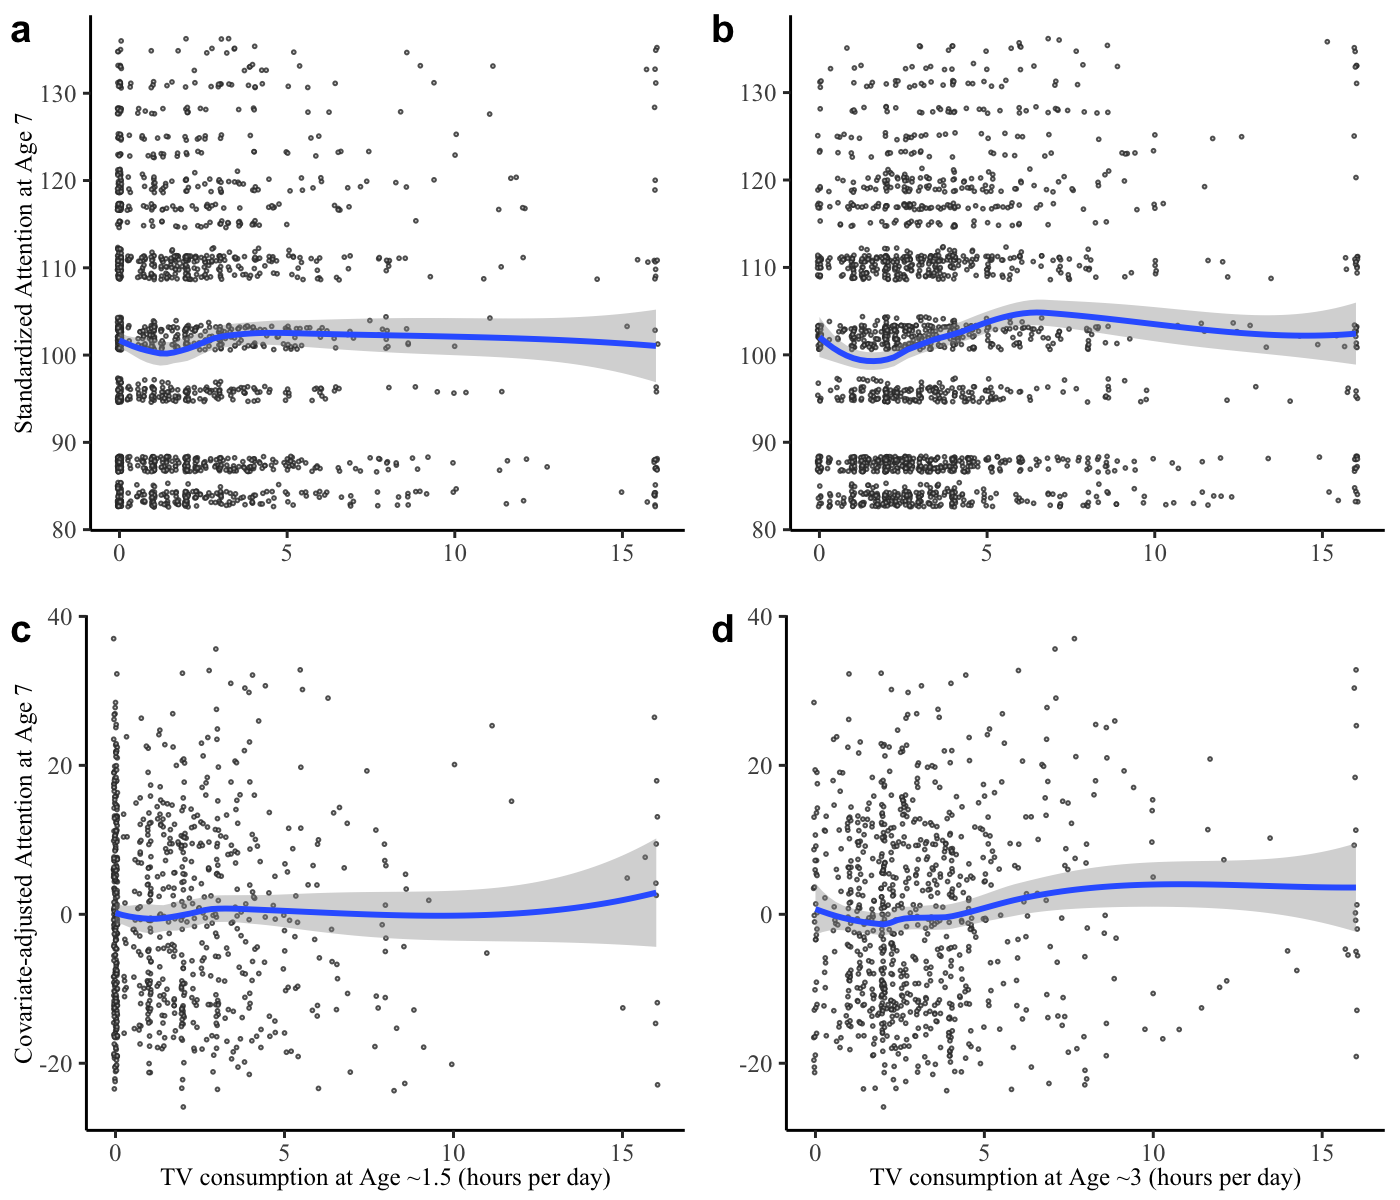
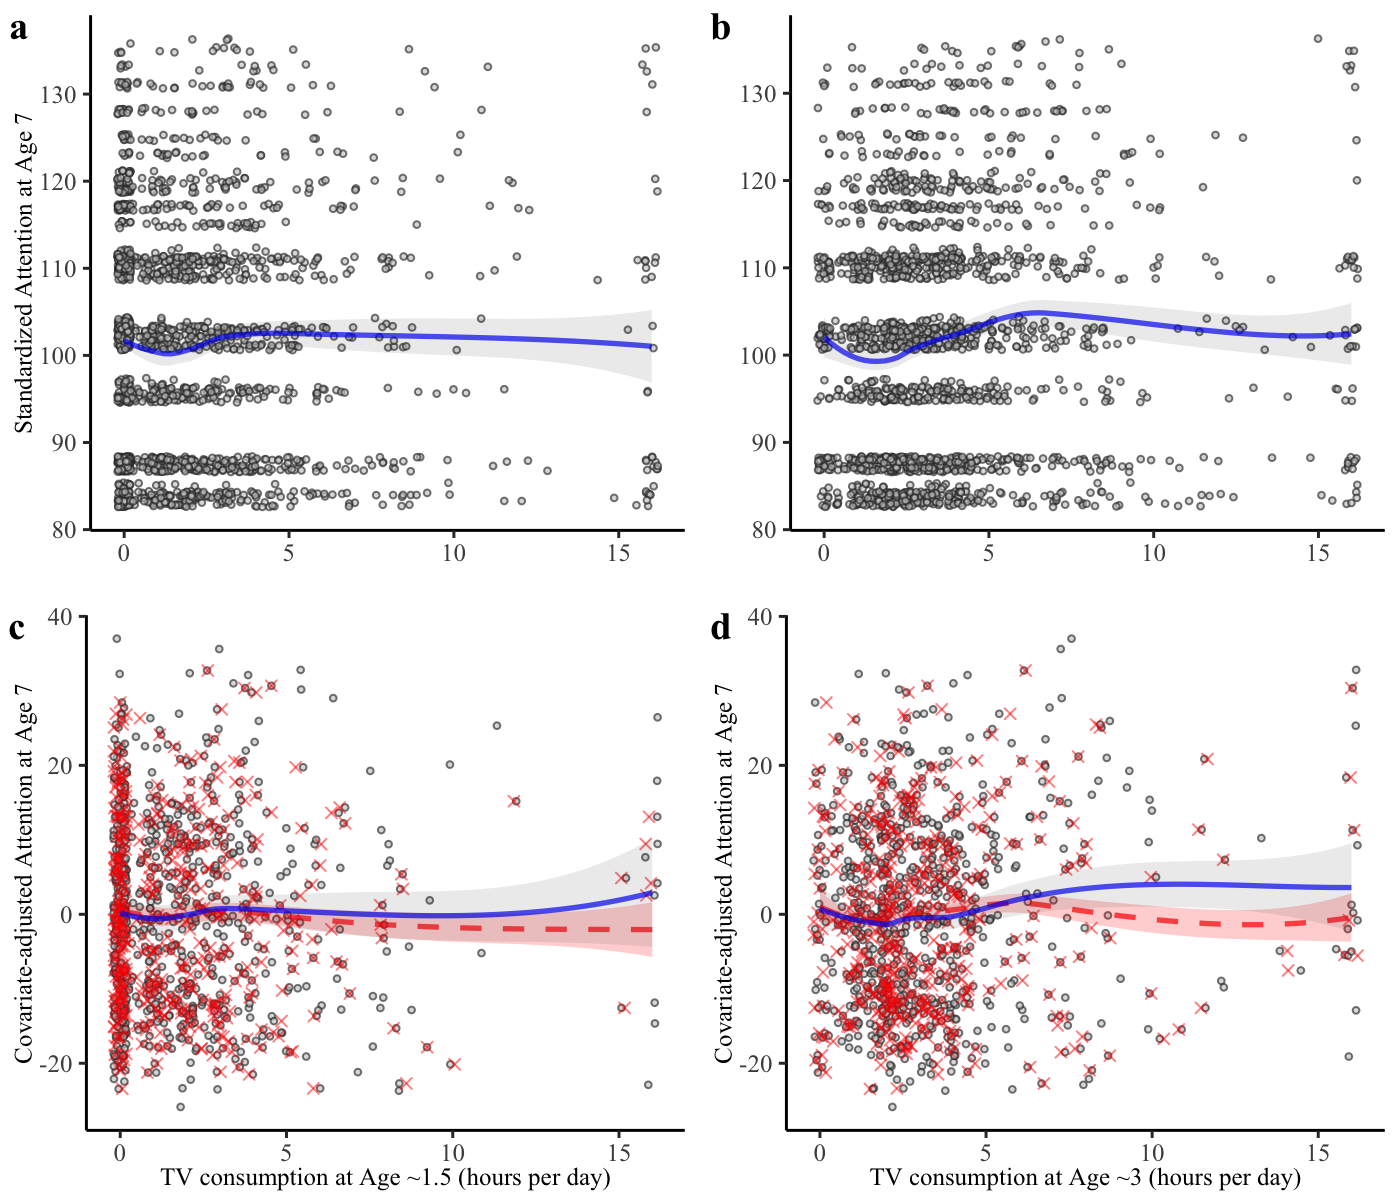
scatterplots show imputed data, EFA bugfix

diff --git a/Manuscript/Tables/temp_att_EFA_2factor.html b/Manuscript/Tables/temp_att_EFA_2factor.html
@@ -1,17 +1,17 @@
 
 <table style="text-align:center"><caption><strong>EFA results</strong></caption>
 <tr><td colspan="3" style="border-bottom: 1px solid black"></td></tr><tr><td style="text-align:left"></td><td>MR1</td><td>MR2</td></tr>
-<tr><td colspan="3" style="border-bottom: 1px solid black"></td></tr><tr><td style="text-align:left">temp1</td><td>0.002</td><td>0.606</td></tr>
-<tr><td style="text-align:left">temp2</td><td>-0.042</td><td>0.492</td></tr>
-<tr><td style="text-align:left">temp3</td><td>-0.068</td><td>0.526</td></tr>
-<tr><td style="text-align:left">temp4</td><td>-0.127</td><td>0.413</td></tr>
-<tr><td style="text-align:left">temp5</td><td>-0.085</td><td>0.403</td></tr>
-<tr><td style="text-align:left">temp6</td><td>-0.079</td><td>0.540</td></tr>
-<tr><td style="text-align:left">att1</td><td>0.763</td><td>-0.048</td></tr>
-<tr><td style="text-align:left">att2</td><td>0.559</td><td>-0.062</td></tr>
-<tr><td style="text-align:left">att3</td><td>0.578</td><td>-0.022</td></tr>
-<tr><td style="text-align:left">att4</td><td>0.471</td><td>-0.109</td></tr>
-<tr><td style="text-align:left">att5</td><td>0.674</td><td>-0.104</td></tr>
+<tr><td colspan="3" style="border-bottom: 1px solid black"></td></tr><tr><td style="text-align:left">temp1</td><td>-0.007</td><td>0.611</td></tr>
+<tr><td style="text-align:left">temp2</td><td>-0.033</td><td>0.496</td></tr>
+<tr><td style="text-align:left">temp3</td><td>-0.071</td><td>0.532</td></tr>
+<tr><td style="text-align:left">temp4</td><td>-0.131</td><td>0.413</td></tr>
+<tr><td style="text-align:left">temp5</td><td>-0.109</td><td>0.379</td></tr>
+<tr><td style="text-align:left">temp6</td><td>-0.110</td><td>0.497</td></tr>
+<tr><td style="text-align:left">att1</td><td>0.762</td><td>-0.062</td></tr>
+<tr><td style="text-align:left">att2</td><td>0.557</td><td>-0.069</td></tr>
+<tr><td style="text-align:left">att3</td><td>0.579</td><td>-0.030</td></tr>
+<tr><td style="text-align:left">att4</td><td>0.469</td><td>-0.106</td></tr>
+<tr><td style="text-align:left">att5</td><td>0.675</td><td>-0.106</td></tr>
 <tr><td colspan="3" style="border-bottom: 1px solid black"></td></tr><tr><td colspan="3" style="text-align:left">Structure coefficients for a 2-factor solution</td></tr>
 <tr><td colspan="3" style="text-align:left">Minimum residual solution</td></tr>
 <tr><td colspan="3" style="text-align:left">Direct oblimin rotation</td></tr>

diff --git a/Manuscript/Tables/temp_att_EFA_1factor.html b/Manuscript/Tables/temp_att_EFA_1factor.html
@@ -1,16 +1,16 @@
 
 <table style="text-align:center"><caption><strong>EFA results</strong></caption>
 <tr><td colspan="2" style="border-bottom: 1px solid black"></td></tr><tr><td style="text-align:left"></td><td>.</td></tr>
-<tr><td colspan="2" style="border-bottom: 1px solid black"></td></tr><tr><td style="text-align:left">temp1</td><td>-0.149</td></tr>
-<tr><td style="text-align:left">temp2</td><td>-0.166</td></tr>
-<tr><td style="text-align:left">temp3</td><td>-0.195</td></tr>
-<tr><td style="text-align:left">temp4</td><td>-0.227</td></tr>
-<tr><td style="text-align:left">temp5</td><td>-0.186</td></tr>
-<tr><td style="text-align:left">temp6</td><td>-0.207</td></tr>
-<tr><td style="text-align:left">att1</td><td>0.701</td></tr>
-<tr><td style="text-align:left">att2</td><td>0.539</td></tr>
-<tr><td style="text-align:left">att3</td><td>0.540</td></tr>
-<tr><td style="text-align:left">att4</td><td>0.478</td></tr>
-<tr><td style="text-align:left">att5</td><td>0.659</td></tr>
+<tr><td colspan="2" style="border-bottom: 1px solid black"></td></tr><tr><td style="text-align:left">temp1</td><td>-0.158</td></tr>
+<tr><td style="text-align:left">temp2</td><td>-0.159</td></tr>
+<tr><td style="text-align:left">temp3</td><td>-0.199</td></tr>
+<tr><td style="text-align:left">temp4</td><td>-0.231</td></tr>
+<tr><td style="text-align:left">temp5</td><td>-0.204</td></tr>
+<tr><td style="text-align:left">temp6</td><td>-0.229</td></tr>
+<tr><td style="text-align:left">att1</td><td>0.702</td></tr>
+<tr><td style="text-align:left">att2</td><td>0.537</td></tr>
+<tr><td style="text-align:left">att3</td><td>0.541</td></tr>
+<tr><td style="text-align:left">att4</td><td>0.472</td></tr>
+<tr><td style="text-align:left">att5</td><td>0.657</td></tr>
 <tr><td colspan="2" style="border-bottom: 1px solid black"></td></tr><tr><td colspan="2" style="text-align:left">Structure coefficients for a 1-factor solution</td></tr>
 </table>

diff --git a/Manuscript/Tables/temp_att_EFA_2factor_Phi.html b/Manuscript/Tables/temp_att_EFA_2factor_Phi.html
@@ -1,8 +1,8 @@
 
 <table style="text-align:center"><caption><strong>EFA results</strong></caption>
 <tr><td colspan="3" style="border-bottom: 1px solid black"></td></tr><tr><td style="text-align:left"></td><td>MR1</td><td>MR2</td></tr>
-<tr><td colspan="3" style="border-bottom: 1px solid black"></td></tr><tr><td style="text-align:left">MR1</td><td>1</td><td>-0.097</td></tr>
-<tr><td style="text-align:left">MR2</td><td>-0.097</td><td>1</td></tr>
+<tr><td colspan="3" style="border-bottom: 1px solid black"></td></tr><tr><td style="text-align:left">MR1</td><td>1</td><td>-0.110</td></tr>
+<tr><td style="text-align:left">MR2</td><td>-0.110</td><td>1</td></tr>
 <tr><td colspan="3" style="border-bottom: 1px solid black"></td></tr><tr><td colspan="3" style="text-align:left">Factor intercorrelation matrix for a 2-factor solution</td></tr>
 <tr><td colspan="3" style="text-align:left">Minimum residual solution</td></tr>
 <tr><td colspan="3" style="text-align:left">Direct oblimin rotation</td></tr>
